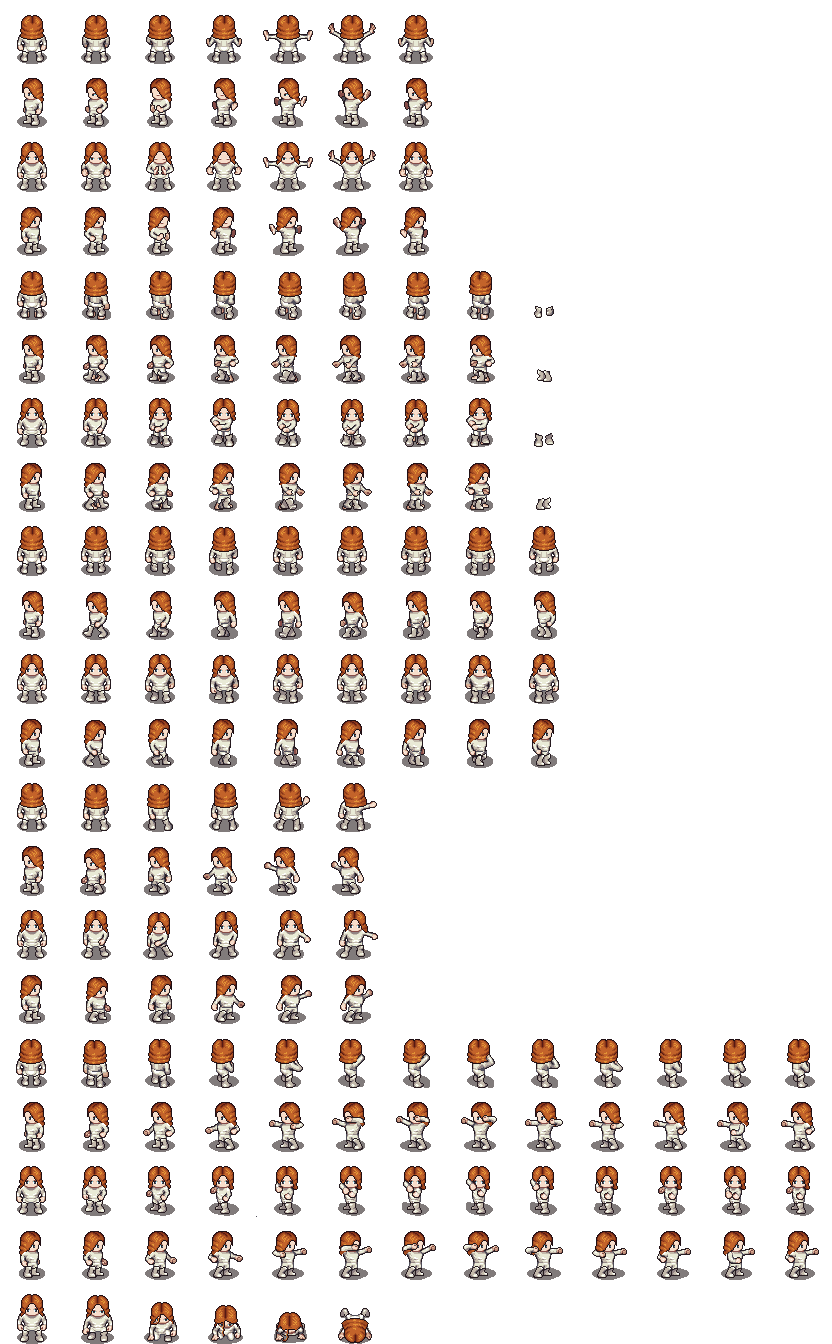
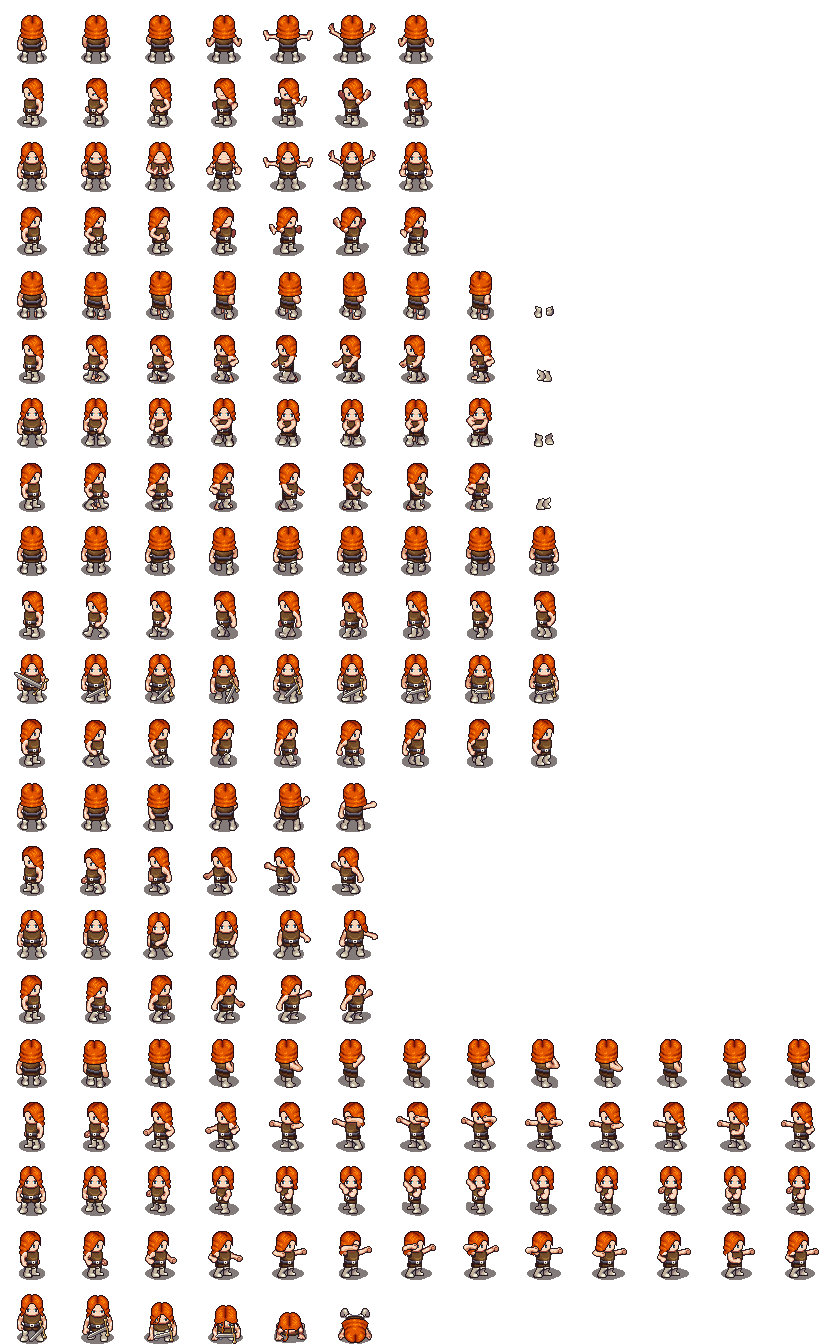
Refine player aging sprites
Specs: tests/specs/player_aging_assets_test.gd tests/specs/player_aging_model_test.gd

diff --git a/llm-wiki/index.md b/llm-wiki/index.md
@@ -39,7 +39,7 @@
 | [architecture/player-stats](architecture/player-stats.md) | reference | 2026-05-13 | Player HP, level, death/rebirth, game-over request, XP, persistent facilities, and serialization. |
 | [architecture/life-tracker](architecture/life-tracker.md) | reference | 2026-05-11 | Daily tasks, habits, completions, streaks, and XP rewards. |
 | [architecture/progression-model](architecture/progression-model.md) | reference | 2026-05-13 | Life task completion, player XP, linked quest completion, Swordsman certification, HP spend, and facility unlock rules. |
-| [architecture/player-aging-model](architecture/player-aging-model.md) | reference | 2026-05-13 | Pure Max Life to player sprite age-stage mapping for progressively greyer player visuals. |
+| [architecture/player-aging-model](architecture/player-aging-model.md) | reference | 2026-05-13 | Pure Max Life to player sprite age-stage mapping for normal, grey-haired, and white-haired player visuals. |
 | [architecture/npc-definition](architecture/npc-definition.md) | reference | 2026-05-11 | Resource-backed NPC role variants for quest givers, vendors, and facilities. |
 | [architecture/settings-model](architecture/settings-model.md) | reference | 2026-05-11 | User options state with volume clamp and fullscreen flag. |
 | [architecture/persistence-audio-settings](architecture/persistence-audio-settings.md) | reference | 2026-05-11 | SaveManager, AudioManager, SettingsModel, and SceneTransitionController system boundaries. |

diff --git a/llm-wiki/architecture/player-aging-model.md b/llm-wiki/architecture/player-aging-model.md
@@ -11,7 +11,7 @@ sources:
 
 ## Overview
 
-`PlayerAgingModel` is a pure presentation rule model that maps the player's Max Life to one of three greyer LPC player sprites. It keeps aging thresholds outside Town and Field scene glue while letting certification sacrifice become visible on the player character.
+`PlayerAgingModel` is a pure presentation rule model that maps the player's Max Life to three LPC player aging sprites: normal hair, grey hair/beard, and white hair/beard. It keeps aging thresholds outside Town and Field scene glue while letting certification sacrifice become visible on the player character.
 
 ## API
 
@@ -31,6 +31,7 @@ func texture_path_for_max_hp(max_hp: int) -> String
 ## Test Coverage
 
 - `tests/specs/player_aging_model_test.gd` covers stage thresholds and texture path mapping.
+- `tests/specs/player_aging_assets_test.gd` covers the visible hair/beard color story for the three generated player sprites.
 - `tests/specs/town_scene_dialog_test.gd` covers Town applying age stage 1 on start and updating to stages 2 and 3 after certification.
 - `tests/specs/field_scene_test.gd` covers Field applying the default age stage 1 player sprite.
 

diff --git a/README.md b/README.md
@@ -8,12 +8,12 @@ Personal life-tracking / productivity game built in Godot 4.6.2.
 - Town hub has click-to-move player, camera follow, NPC dialog, daily task panel, and settings panel.
 - Field is playable with Town/Forest gateways, shared HUD, Slime/Bat/Rat enemy spawns, enemy HP bars, hit feedback, drops, and respawn polling.
 - Swordsman Guild certification is playable after the Forest Guard checkpoint and ends at the open Forest path prototype endpoint.
-- Player sprite aging reflects Max Life pressure through three progressively greyer sprites.
+- Player sprite aging reflects Max Life pressure through normal hair, grey hair/beard, and white hair/beard stages.
 - Quests can link to real-life tasks.
 - Completing life tasks grants XP; linked quest completion spends HP.
 - SaveManager serializes player, quest, and life-tracking state.
 - GDAI MCP remains enabled for editor use and is skipped during headless tests.
-- Test baseline: `363 tests, 363 passed, 0 failed`.
+- Test baseline: `366 tests, 366 passed, 0 failed`.
 
 ## Run Tests
 

diff --git a/llm-wiki/log.md b/llm-wiki/log.md
@@ -3,9 +3,9 @@
 ## [2026-05-13] feature | Add player aging sprites
 
 - RED: added PlayerAgingModel, Town, and Field specs for Life-based player sprite aging.
-- Generated `player_age_1.png`, `player_age_2.png`, and `player_age_3.png` from the current LPC player sheet with progressively stronger greying.
+- Generated `player_age_1.png`, `player_age_2.png`, and `player_age_3.png` as normal hair, grey hair/beard, and white hair/beard LPC age stages.
 - Town and Field now apply age sprites from `PlayerAgingModel`; Town updates the sprite after certification Life spend.
-- Validation: full suite `363 tests, 363 passed, 0 failed`.
+- Validation: full suite `366 tests, 366 passed, 0 failed`.
 
 ## [2026-05-13] fix | Block HUD clicks from player movement
 

diff --git a/prototype/components/town.md b/prototype/components/town.md
@@ -340,7 +340,7 @@ Town uses primitive/SVG world art plus generated LPC character sprites for Playe
 - Dialog shows NPC face portrait above the dialog box using an AtlasTexture face crop from the NPC LPC spritesheet.
 - Dialog pages split on blank lines and advance with `Next`.
 - Character idle uses calm walk-row standing frames instead of LPC spellcast/prayer rows.
-- Player visual aging uses greyer LPC sprites as Max Life is spent.
+- Player visual aging uses normal hair, grey hair/beard, and white hair/beard LPC sprites as Max Life is spent.
 - Town NPC idle cycles use different intervals for subtle desync.
 - World primitive `Control` nodes use `mouse_filter = ignore` so ground clicks reach Town movement.
 - Project viewport: 1920×1080.

diff --git a/prototype/components/progression.md b/prototype/components/progression.md
@@ -47,7 +47,7 @@ Current implemented pieces:
 - Field activates `Rebuilding Swordsman Guild`.
 - `PlayerStats` supports Life, Max Life, XP, death, rebirth, facilities, and serialization.
 - `ProgressionModel` links real-life task completion, XP, quest completion, and facility unlock hooks.
-- `PlayerAgingModel` maps Max Life pressure to three greyer player sprite stages.
+- `PlayerAgingModel` maps Max Life pressure to normal hair, grey hair/beard, and white hair/beard sprite stages.
 - Town Guildmaster can react to `QuestSystem.current_main_objective_id()`.
 - Shared HUD shows Life / Max Life through Town and Field.
 

diff --git a/docs/STATUS.md b/docs/STATUS.md
@@ -4,7 +4,7 @@
 
 ## QA Status
 
-- Automated suite: `363 tests, 363 passed, 0 failed`
+- Automated suite: `366 tests, 366 passed, 0 failed`
 - Manual QA: pass for MVP flow
 - Godot warnings/errors: headless suite passes. Current known non-failing output includes existing `assets-gallery.tscn` invalid UID fallback warnings and resource cleanup warnings.
 

diff --git a/prototype/game-systems.md b/prototype/game-systems.md
@@ -596,7 +596,7 @@ Each system should list:
 - Player `Sprite2D`
 - Town controller sprite refresh
 - Field controller sprite refresh
-- Three greyer LPC player sprites
+- Three aging LPC player sprites: normal hair, grey hair/beard, white hair/beard
 
 ### Resources
 
